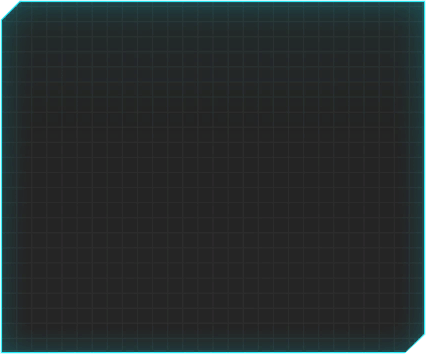
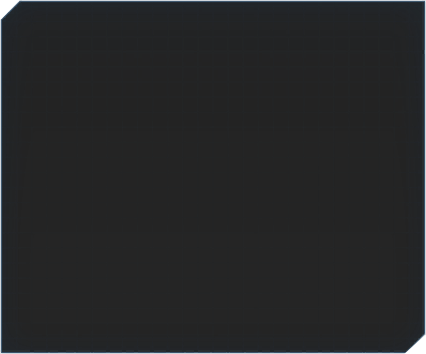
Ditching the green for eldorito blue
This scheme hurts the eyes so much less

Changed region(s): [[0.0, 0.0, 1.0, 1.0]]

diff --git a/css/browser.css b/css/browser.css
@@ -46,17 +46,17 @@
     padding-right: 0;
 }
 .serverTable{
-    opacity: 0.8;
+    opacity: 0.7;
     padding: 5;
-    background-color:black;
-    color: #5eaeb4;
+    color: white;
+    background: black;
 }
 .browserTitle{
     opacity: 0.9;
     position: absolute;
     top: 6;
     left: 90;
-    color: #5eaeb4;
+    color: white;
 }
 #logo{
     position: absolute;
@@ -71,7 +71,7 @@
     position: absolute;
     top: 0;
     left: 445;
-    color: black;
+    color: white;
     font-weight: bold;
     background: url("../images/button.png") 0px 0px no-repeat;
     background-size: contain;
@@ -91,11 +91,11 @@
     position: absolute;
     top: 23;
     left: 600;
-    color: #5eaeb4;
+    color: white;
 }
 .statBreakdown{
     background: black;
-    color:#5eaeb4;
+    color:white;
 }
 #connectionStatus{
 	opacity: 0.8;
@@ -109,5 +109,17 @@ body{
     cursor: url('../images/cursor.png'), default;
 }
 a {
-    color: #5eaeb4;
+    color: white;
+}
+a:hover {
+    color: white;
+}
+a:visited {
+    color: white;
+}
+.table-hover tbody tr:hover td, .table-hover tbody tr:hover th {
+  background-color: #1a3d5a;
+}
+.tableHeader{
+  background-color: #1a3d5a;
 }

diff --git a/index.html b/index.html
@@ -58,7 +58,7 @@
 					<h4><b><center><div class="text-danger">[PRIVATE]</div></center></b></h4>
 					{{else}}
 						<table class="table-bordered statBreakdown">
-							<thead>
+							<thead class="tableHeader">
 								<th><center>Name</center></th>
 								<th><center>Score</center></th>
 								<th><center>K</center></th>
@@ -115,7 +115,7 @@
 
 	<script id="server-list-template" type="text/x-handlebars-template">
 		<table class="serverTable table table-bordered table-hover" id="serverlist{{ i }}">
-			<thead>
+			<thead class="tableHeader">
 				<th><center>IP (Click to Join)</center></th>
 				<th>Details</th>
 				<th><center>Host Location</center></th>
